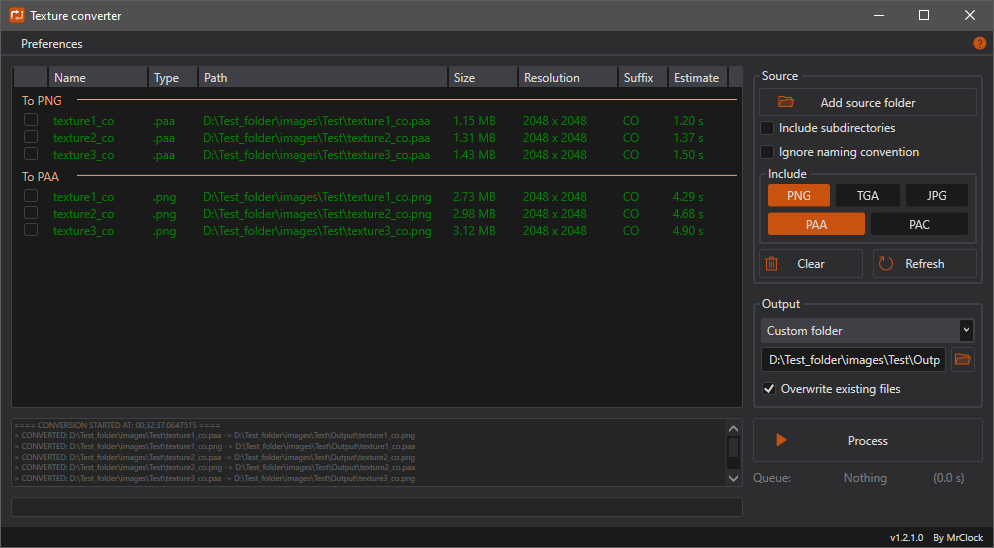
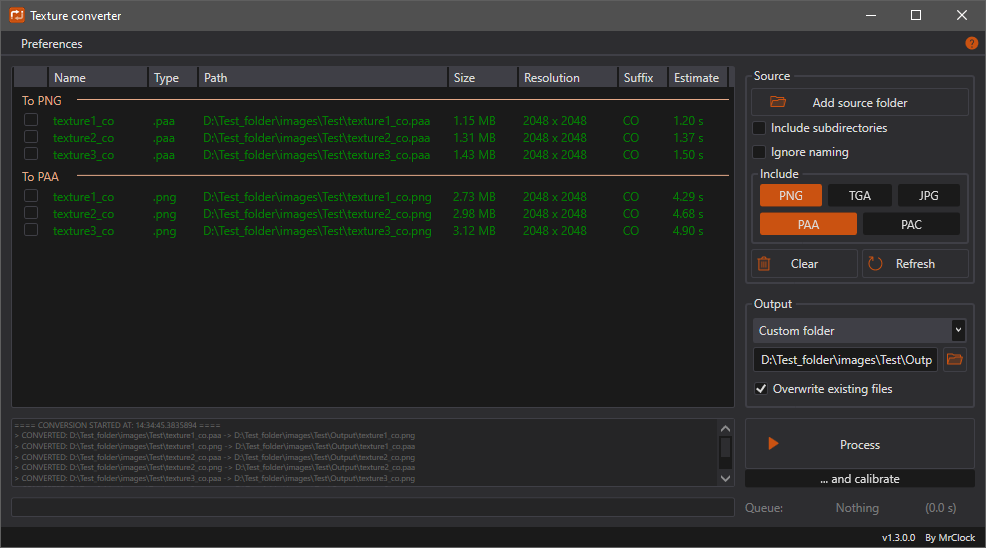
Updated VB.Net Framework Texture converter
Minimal corrections
Added calibration

diff --git a/docs/vbnetframework/textureconverter.md b/docs/vbnetframework/textureconverter.md
@@ -13,7 +13,7 @@
 * Light and dark color theme
 
 The [Arma 3 Tools](https://store.steampowered.com/app/233800/Arma_3_Tools/) have a very similar application called [ImageToPAA](https://community.bistudio.com/wiki/ImageToPAA). While ImageToPAA is a solid program, it only supports conversion to PAA, and not **from** PAA.
-The Texture converter was mainly written to address this lack of feature. Otherwise it has a very similar interface and set of features. This version of the Texture converter tool is also a reimplementation of the previous iteration in a different framework, with the only notable frontend improvement being the inclusion of color themes.
+The Texture converter was mainly written to address this lack of feature. Otherwise it has a very similar interface and set of features. This version of the Texture converter tool is also a reimplementation of the previous iteration in a different framework, with the only notable front end improvement being the inclusion of color themes.
 
 ### Loading files
 
@@ -36,13 +36,13 @@ The loaded files are displayed in a list view with a set of informative fields:
 * **Type:** file extension
 * **Path:** full path to the file
 * **Size:** file size on disk
-* **Resolution:** texture resolution (resolution of the 1st mipmap in case of PAA)
+* **Resolution:** texture resolution (resolution of the 1st mipmap in case of PAX files)
 * **Suffix:** texture type indicator suffix (eg: `CO`, `CA`, `NOHQ` etc.)
 * **Estimate:** estimated time necessary for conversion
 
 !!! note
 
-	The estimated conversion time is based on the file size being divided by an approximate bytes/seconds conversion speed derived from tests during development, therefore it is only an informative value, the true time may differ.
+	The estimated conversion time is based on the file size being multiplied by an approximate seconds/byte conversion speed derived from tests during development, therefore it is only an informative value, the true time may differ.
 
 #### File validation
 
@@ -61,6 +61,29 @@ The converted files are either placed back into the source folder, or into a cus
 If a file could not be converted, an error message is added to the log.
 
 After the conversion, the successful files are displayed in green.
+
+### Calibration
+
+The estimated conversion times are calculated by multiplying the file size by an average seconds/byte conversion speed.
+The default values for this calculation are based on a series of test measurements on the development computer, but since those values are only true for that specific machine, an option was added to remeasure the speed, in order to tune the estimates to the performace of any computer.
+
+Since the PNG/TGA/JPG --> PAA conversion is slower than the PAA --> PNG, the application has two separate speed values stored.
+
+When the `... and calibrate` option is enabled, the conversion is forced to Progressive scheduling, and it cannot be stopped.
+
+During conversion the process times are recorded, and the seconds/byte value is calculated for each item in the queue. After the conversion is finished, the average of the values is taken.
+							
+If only PNG/TGA/JPG or PAA files are in the current queue, only the respective speed value is recalculated.
+
+!!! tip
+
+	Calibration can be run with any number of files in queue, but it is recommended to have at least 10. Ideally, the files should either:
+	
+	* vary in resolution, format, and color range (eg.: using only gray-scale textures is not ideal) --> better estimates for conversions in general, but worse estimates for specific types
+	
+	or:
+	
+	* all be similar --> more accurate estimates for conversion of those specific files types (eg.: if you only use PNG files, calibrate with only PNG files), but worse estimates for conversion of other types
 
 ## Preferences
 
@@ -87,6 +110,16 @@ After the conversion, the successful files are displayed in green.
 * [Arma 3 Tools](https://store.steampowered.com/app/233800/Arma_3_Tools/)
 
 ## Changelogs
+
+??? changelog "v1.3.0"
+
+	Added:
+	
+	* Process `and calibrate` option to remeasure the average conversion speed used to calculate time estimates
+	
+	Changed:
+	
+	* `Ignore naming convention` was renamed to `Ignore naming`, and now it suppresses invalid character warnings as well
 
 ??? changelog "v1.2.1"
 
